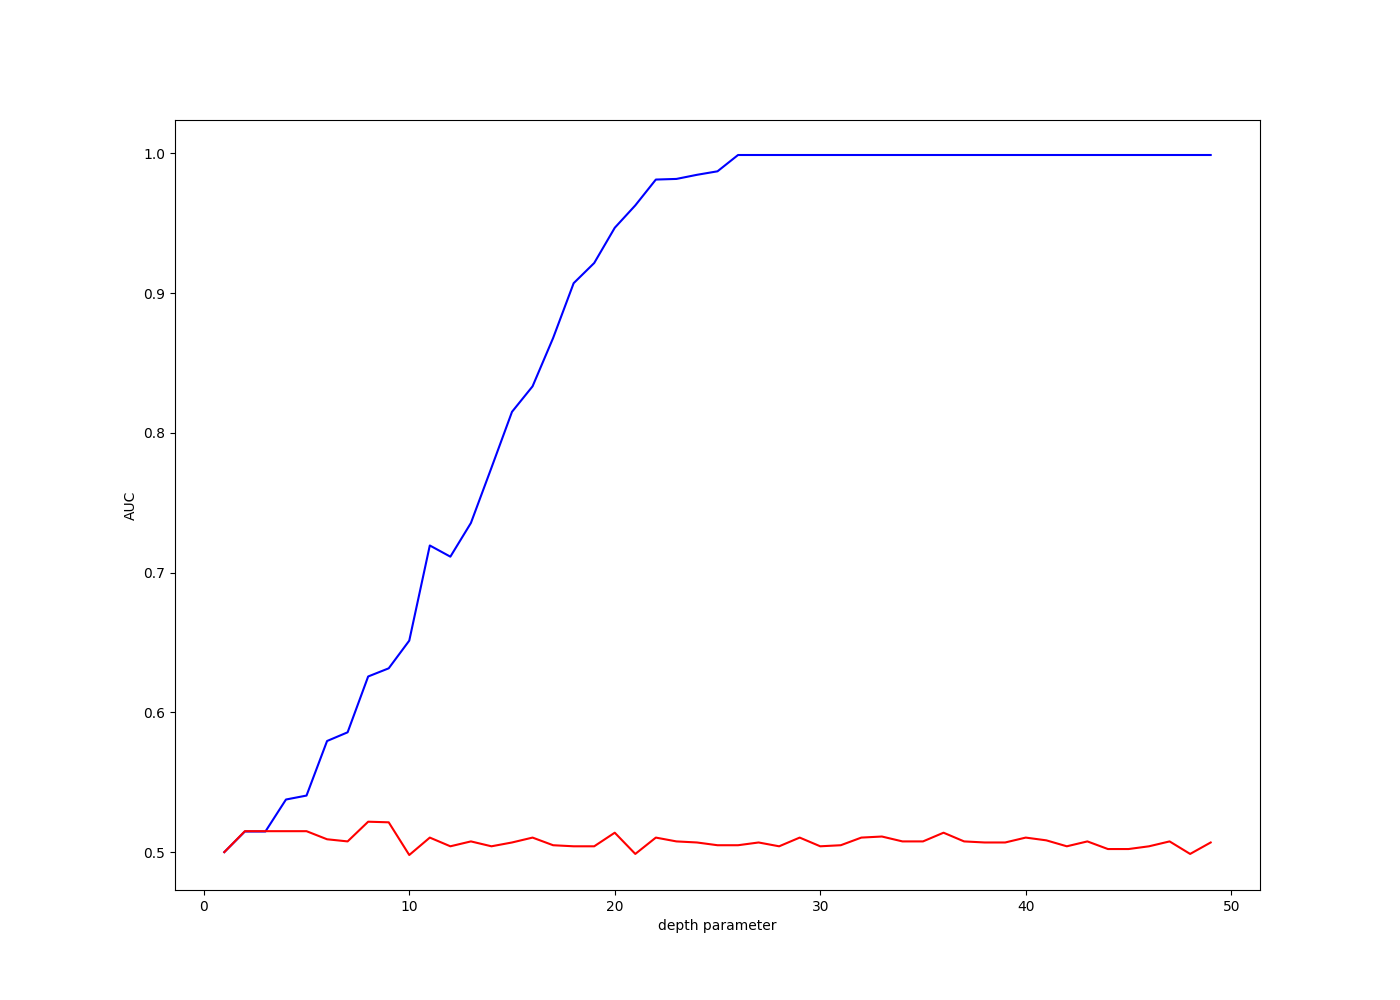
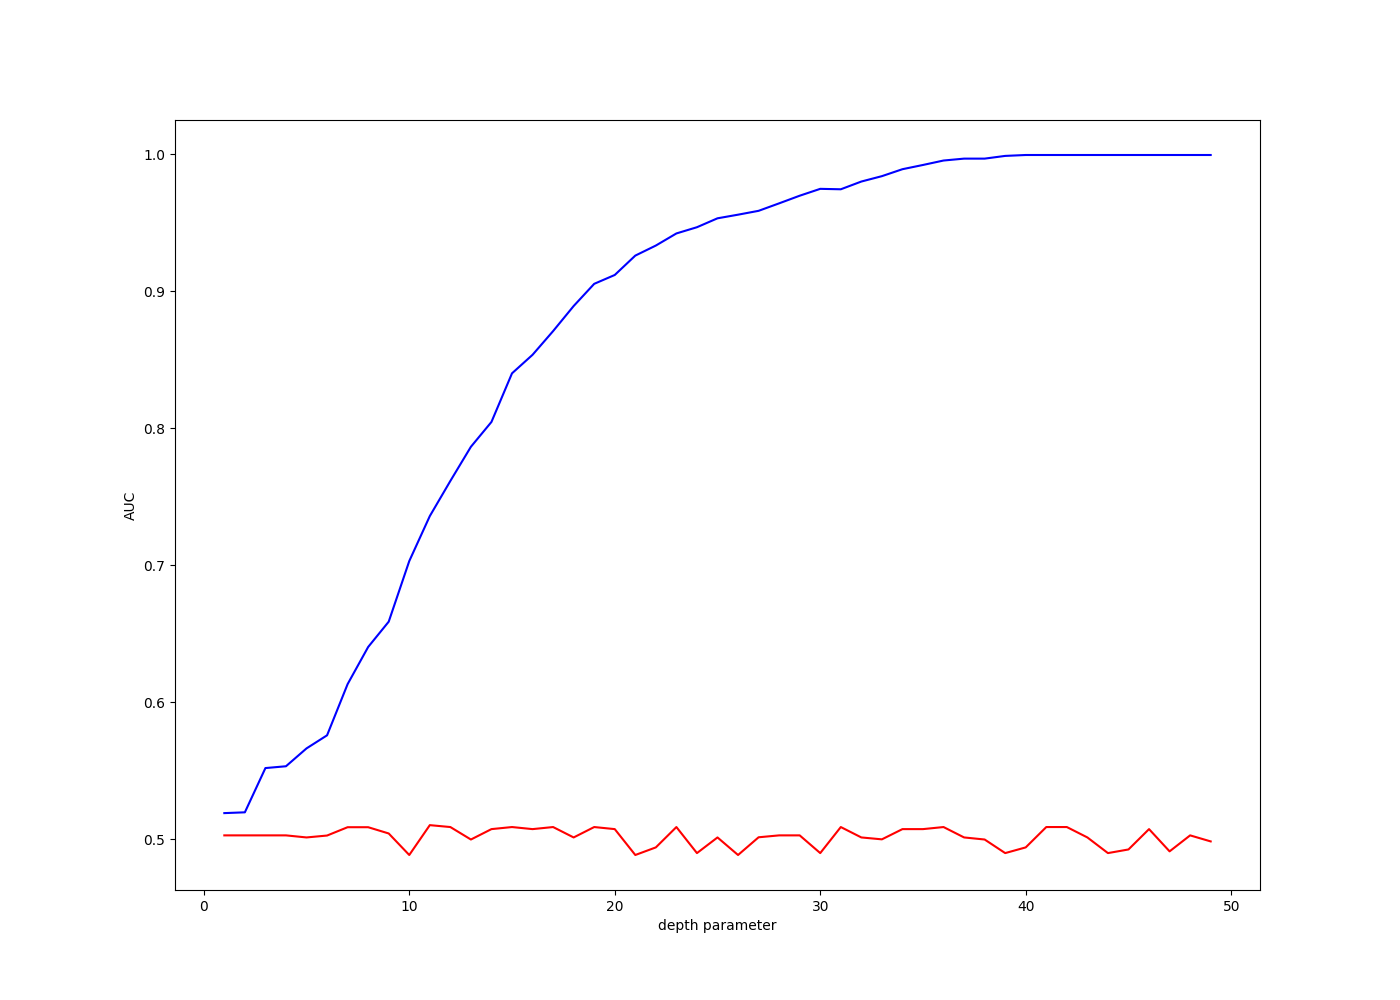
feat(indicators) add rsv,k,d indicators

diff --git a/analyze.py b/analyze.py
@@ -5,7 +5,7 @@ from sklearn.metrics import confusion_matrix
 from sklearn.metrics import roc_curve, auc
 import matplotlib.pyplot as plt
 
-df = pd.read_csv('data/20180102~20220713.csv')
+df = pd.read_csv('data/20130101~20220715.csv')
 
 df = df.rename(columns={'收盤價': 'Close', '開盤價': 'Open',
                         '最高價': 'High', '最低價': 'Low',
@@ -35,24 +35,24 @@ test_x = test.drop('Week_trend', axis=1)
 test_y = test.Week_trend
 
 # Decision tree
-model = DecisionTreeClassifier(max_depth=18)
+model = DecisionTreeClassifier(max_depth=17)
 
 model.fit(train_x, train_y)
 prediction = model.predict(test_x)
 
 # confusion_matrix
 confusion_matrix = confusion_matrix(test_y, prediction)
-# print(confusion_matrix)
+print(confusion_matrix)
 
 # Accuracy 0.46 ~ 0.50
-# print(model.score(test_x, test_y))
+print(model.score(test_x, test_y))
 
 # ROC
 false_positive_rate, true_positive_rate, thresholds = roc_curve(test_y, prediction)
 # AUC
 auc(false_positive_rate, true_positive_rate)
-# print(auc(false_positive_rate, true_positive_rate))
-'''
+print(auc(false_positive_rate, true_positive_rate))
+
 depth_parameters = np.arange(1, 50)
 # 準備兩個容器，一個裝所有參數下的訓練階段 AUC；另一個裝所有參數下的測試階段 AUC
 train_auc = []
@@ -81,9 +81,10 @@ plt.plot(depth_parameters, train_auc, 'b', label='Train AUC')
 plt.plot(depth_parameters, test_auc, 'r', label='Test AUC')
 plt.ylabel('AUC')
 plt.xlabel('depth parameter')
-plt.show()
+# plt.show()
 plt.savefig('picture/depth_parameters.png')
-'''
+
+# --------------------- 策略-------------------------#
 
 # test 是我們在切割樣本的時候，切出來的測試樣本，包含了價量資訊，我們首先將 A.I. 在這期間的預測結果 prediction 放進去
 test['prediction'] = prediction
@@ -103,7 +104,6 @@ test['sell_cost'] = test.Open[np.where((test.status == 0) * (test.status.shift(1
 # 把缺值補上 0
 test = test.fillna(0)
 
-# 來算算每次買賣的報酬率吧！
 # 一買一賣是剛好對應的，所以把買的成本以及賣的價格這兩欄的數字取出，就能輕易的算出交易報酬率
 
 buy_cost = np.array(test.buy_cost[test.buy_cost != 0])
@@ -165,4 +165,4 @@ test.buy_and_hold_equity.plot(color='black')  # 買進持有績效
 test.strategy_equity.plot(color='blue')  # 策略績效
 test.strategy_net_equity.plot(color='red')  # 策略扣除成本後績效
 
-plt.savefig('picture/equity')
+# plt.savefig('picture/equity')

diff --git a/indicators.py b/indicators.py
@@ -1,0 +1,47 @@
+import numpy as np
+import pandas as pd
+
+
+def rsv(data):
+    # rsv = (今日收盤價 - 最近九天的最低價)/(最近九天的最高價 - 最近九天最低價)
+    rsv = (
+                  data['收盤價'] - data['收盤價'].rolling(window=9).min()
+          ) / (
+                  data['收盤價'].rolling(window=9).max() - data['收盤價'].rolling(window=9).min()
+          ) * 100
+    rsv = np.nan_to_num(rsv)
+    return rsv
+
+
+def kv(rsv):
+    # 當日K值=前一日K值 * 2/3 + 當日RSV * 1/3
+    kv = [20 for x in range(8)]
+    ktemp = kv[0]
+    for i in range(len(rsv) - 8):
+        ktemp = ktemp * (2 / 3) + rsv[i + 8] * (1 / 3)
+        kv.append(round(ktemp, 2))
+    return kv
+
+
+def dv(kv):
+    # 當日D值=前一日D值 * 2/3 + 當日K值 * 1/3
+    dv = [50 for x in range(8)]
+    dtemp = dv[0]
+    for i in range(len(kv) - 8):
+        dtemp = dtemp * (2 / 3) + kv[i + 8] * (1 / 3)
+        dv.append(round(dtemp, 2))
+    return dv
+
+
+if __name__ == "__main__":
+    df = pd.read_csv('data/20130101~20220715.csv')
+    tsmc = df[df['證券代號'] == 2330]
+
+    rsv = rsv(tsmc)
+    kv = kv(rsv)
+    dv = dv(kv)
+
+    tsmc['RSV'] = rsv
+    tsmc['K'] = kv
+    tsmc['D'] = dv
+    print(tsmc)

diff --git a/download.py b/download.py
@@ -71,7 +71,7 @@ def download_stock_csv(headers: dict, datestr: str, datestrlist: list):
 
 
 if __name__ == "__main__":
-    date_list = get_date('2022-07-13', '2022-07-13')
+    date_list = get_date('2022-07-14', '2022-07-14')
 
     with open("data/headers.txt", 'r') as f:
         headers = eval(f.read())

diff --git a/concat.py b/concat.py
@@ -16,6 +16,6 @@ def concat(path1: str, path2: str):
 
 
 if __name__ == "__main__":
-    a = 'data/20180102~20220712.csv'
-    b = 'data/20220713.csv'
+    a = 'data/20130101~20220714.csv'
+    b = 'data/20220715.csv'
     concat(a, b)
